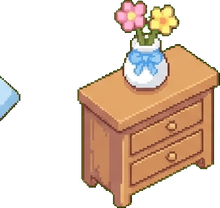
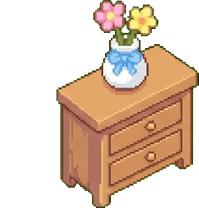
fix(minigames): canon 3-stage Chiikawa forage, unclipped furniture, arch depth occlusion, invite accordion & search

Changed region(s): [[0.2714, 0.0, 0.995, 1.0], [0.0, 0.3462, 0.1206, 0.5769], [0.9045, 0.375, 0.9347, 0.4038]]

diff --git a/app/src/main/assets/canvas-minigames.js b/app/src/main/assets/canvas-minigames.js
@@ -31,11 +31,12 @@
   aquarium:'pixel_furn_aquarium',lamp:'pixel_furn_lamp',plant:'pixel_furn_plant',
   rug:'pixel_furn_cushions'
  };
- // Foot collision half-extents (hw, hh) in logical 600x1000 space so live room actors never walk through furniture.
+ // Foot collision half-extents (hw, hh) & height layerBias in logical 600x1000 space.
+ // Flat items (cushions/rug) use negative layerBias so characters sit/stand over them; tall items occlude behind.
  const FURNITURE_FOOTPRINTS={
-  bed:{hw:54,hh:26,sit:true},shelf:{hw:34,hh:20},books:{hw:34,hh:20},
-  desk:{hw:38,hh:22},chair:{hw:36,hh:18,sit:true},sofa:{hw:38,hh:22,sit:true},
-  aquarium:{hw:34,hh:22},lamp:{hw:18,hh:14},plant:{hw:20,hh:14},rug:{hw:36,hh:18,sit:true}
+  bed:{hw:54,hh:26,sit:true,layerBias:0},shelf:{hw:34,hh:20,layerBias:4},books:{hw:34,hh:20,layerBias:4},
+  desk:{hw:38,hh:22,layerBias:0},chair:{hw:36,hh:18,sit:true,layerBias:-22},sofa:{hw:38,hh:22,sit:true,layerBias:2},
+  aquarium:{hw:34,hh:22,layerBias:4},lamp:{hw:18,hh:14,layerBias:4},plant:{hw:20,hh:14,layerBias:2},rug:{hw:36,hh:18,sit:true,layerBias:-26}
  };
  const MASCOT_IDS=new Set(['chiikawa','hachiware','usagi','rakko','kurimanju']);
  const ALL_RESIDENT_NAMES=[
@@ -88,6 +89,8 @@
     bg_room:'images/room/room-decor.webp',
     room_chiikawa:'images/minigames/room_chiikawa_empty.webp',
     room_hachiware:'images/minigames/room_hachiware_empty.webp',
+    room_chiikawa_fg:'images/minigames/room_chiikawa_fg.png',
+    room_hachiware_fg:'images/minigames/room_hachiware_fg.png',
     meadow_bg:'images/minigames/meadow_bg.webp',
     prop_weed_full:'images/minigames/props/weed_full.png',
     prop_weed_damaged:'images/minigames/props/weed_damaged.png',
@@ -126,6 +129,8 @@
     foraging:{stage:1,timer:0,choices:[],pending:false,foodIdx:0},
     room:this.loadRoomState()};
    this.roomActors=[];
+   this.roomInviteOpen=false;
+   this.roomGuestQuery='';
    this.roomSocialBar=root.document.getElementById('wv-room-social-bar');
    this.weedMatchNode=root.document.getElementById('wv-weed-match');
    this.forageSentenceNode=root.document.getElementById('wv-forage-sentence');
@@ -598,18 +603,26 @@
     this.text(fr.word||'word',fx+49,fy+22,13,INK,'850',88);
     this.text(fr.meaning||'',fx+49,fy+40,11,'#7d5e48','650',88);
    });
-   // Depth-sort BOTH placed furniture AND live room actors (host + invited residents) by footY!
+   // Depth-sort placed furniture, live room actors, AND front doorway arch/pillars by footY!
    const drawList=[];
    room.placed.forEach((item,index)=>{
-    drawList.push({kind:'furn',footY:item.y+ROOM_FLOOR_OFFSET,item,index});
+    const bias=FURNITURE_FOOTPRINTS[item.id]?.layerBias||0;
+    drawList.push({kind:'furn',footY:item.y+ROOM_FLOOR_OFFSET,sortY:item.y+ROOM_FLOOR_OFFSET+bias,item,index});
    });
    for(const actor of this.roomActors){
-    drawList.push({kind:'actor',footY:actor.y+ROOM_FLOOR_OFFSET,actor});
+    drawList.push({kind:'actor',footY:actor.y+ROOM_FLOOR_OFFSET,sortY:actor.y+ROOM_FLOOR_OFFSET,actor});
    }
-   drawList.sort((a,b)=>a.footY-b.footY);
+   // Front stone arch / dome door arch + lower rim occludes actors & furniture behind y=488
+   const fgKey=room.host==='hachiware'?'room_hachiware_fg':'room_chiikawa_fg';
+   if(this.sprites[fgKey]){
+    drawList.push({kind:'room_fg',footY:488,sortY:488,fgKey});
+   }
+   drawList.sort((a,b)=>a.sortY-b.sortY);
    const nowSec=Date.now()/1000;
    for(const entry of drawList){
-    if(entry.kind==='furn'){
+    if(entry.kind==='room_fg'){
+     this.paintSprite(entry.fgKey,-24,95,648,560);
+    }else if(entry.kind==='furn'){
      const {item,index}=entry;
      const y=entry.footY;
      const pixKey=PIXEL_FURNITURE_MAP[item.id];
@@ -954,30 +967,73 @@
     });
     hostRow.append(btn);
    }
-   const gRow=root.document.createElement('div');gRow.className='wv-room-social-row';
-   const gl=root.document.createElement('span');gl.className='wv-room-social-label';
-   gl.textContent='👥 마을 주민 초대 ('+(room.guests||[]).length+'/4):';
-   gRow.append(gl);
+   // Accordion header showing invited resident count + compact badges + expand/collapse arrow
+   const accBtn=root.document.createElement('button');accBtn.type='button';accBtn.className='wv-guest-accordion-btn';
+   accBtn.setAttribute('aria-expanded',String(Boolean(this.roomInviteOpen)));
+   const summary=root.document.createElement('span');summary.className='wv-guest-summary';
+   const guests=room.guests||[];
+   const nameMap=new Map(ALL_RESIDENT_NAMES);
+   summary.append('👥 마을 주민 초대 ('+guests.length+'/4)');
+   guests.forEach(gid=>{
+    const badge=root.document.createElement('span');badge.className='wv-guest-badge';
+    badge.textContent=nameMap.get(gid)||gid;
+    summary.append(badge);
+   });
+   const arrow=root.document.createElement('span');
+   arrow.textContent=this.roomInviteOpen?'접기 ▴':'펼치기 ▾';
+   accBtn.append(summary,arrow);
+
+   const panel=root.document.createElement('div');panel.className='wv-guest-panel';
+   panel.hidden=!this.roomInviteOpen;
+   const search=root.document.createElement('input');
+   search.type='search';search.className='wv-guest-search';
+   search.placeholder='🔍 주민 이름 검색 (예: 우사기, 토시로, 알렉스)...';
+   search.value=this.roomGuestQuery||'';
    const chips=root.document.createElement('div');chips.className='wv-guest-chips';
-   for(const [rid,rname] of ALL_RESIDENT_NAMES){
-    if(rid===room.host)continue;
-    const active=(room.guests||[]).includes(rid);
-    const chip=root.document.createElement('button');chip.type='button';chip.className='wv-guest-chip';
-    chip.setAttribute('aria-pressed',String(active));
-    chip.textContent=active?rname+' ✓':rname+' +';
-    chip.addEventListener('click',()=>{
-     const cur=room.guests||[];
-     if(cur.includes(rid)){
-      room.guests=cur.filter(id=>id!==rid);
-     }else{
-      if(cur.length>=4){this.message('마을 주민은 최대 4명까지 함께 초대할 수 있어요.');return;}
-      room.guests=[...cur,rid];
-     }
-     this.saveRoomState();this.syncRoomActors();this.renderRoomSocialUI();
-    });
-    chips.append(chip);
-   }
-   bar.append(hostRow,gRow,chips);
+
+   const populateChips=()=>{
+    chips.replaceChildren();
+    const q=(this.roomGuestQuery||'').trim().toLowerCase();
+    let count=0;
+    for(const [rid,rname] of ALL_RESIDENT_NAMES){
+     if(rid===room.host)continue;
+     if(q&&!rname.toLowerCase().includes(q)&&!rid.toLowerCase().includes(q))continue;
+     count++;
+     const active=(room.guests||[]).includes(rid);
+     const chip=root.document.createElement('button');chip.type='button';chip.className='wv-guest-chip';
+     chip.setAttribute('aria-pressed',String(active));
+     chip.textContent=active?rname+' ✓':rname+' +';
+     chip.addEventListener('click',()=>{
+      const cur=room.guests||[];
+      if(cur.includes(rid)){
+       room.guests=cur.filter(id=>id!==rid);
+      }else{
+       if(cur.length>=4){this.message('마을 주민은 최대 4명까지 함께 초대할 수 있어요.');return;}
+       room.guests=[...cur,rid];
+      }
+      this.saveRoomState();this.syncRoomActors();this.renderRoomSocialUI();
+     });
+     chips.append(chip);
+    }
+    if(!count){
+     const empty=root.document.createElement('span');empty.className='wv-guest-empty';
+     empty.textContent='“'+this.roomGuestQuery+'”에 해당하는 주민이 없습니다.';
+     chips.append(empty);
+    }
+   };
+   search.addEventListener('input',()=>{
+    this.roomGuestQuery=search.value;
+    populateChips();
+   });
+   accBtn.addEventListener('click',()=>{
+    this.roomInviteOpen=!this.roomInviteOpen;
+    panel.hidden=!this.roomInviteOpen;
+    accBtn.setAttribute('aria-expanded',String(this.roomInviteOpen));
+    arrow.textContent=this.roomInviteOpen?'접기 ▴':'펼치기 ▾';
+   });
+   populateChips();
+   panel.append(search,chips);
+   bar.append(hostRow,accBtn,panel);
   }
   buildWeedingMatchUI(){
    const box=this.weedMatchNode;if(!box||!this.words.length)return;

diff --git a/app/src/main/assets/canvas-minigames.css b/app/src/main/assets/canvas-minigames.css
@@ -206,7 +206,28 @@
 #wv-room-social-bar .wv-host-btn[data-host="hachiware"][aria-pressed="true"]{
  background:#6eb2de;border-color:#3a6f94;color:#fff;
 }
-.wv-guest-chips{display:flex;flex-wrap:wrap;gap:5px;max-height:92px;overflow-y:auto;padding:2px 0}
+.wv-guest-accordion-btn{
+ width:100%;display:flex;align-items:center;justify-content:space-between;gap:8px;
+ min-height:36px;padding:6px 10px;border-radius:10px;
+ background:#f7ecd7;border:1.5px solid #c4a482;color:#4a3b32;font-size:12px;font-weight:850;
+ text-align:left;cursor:pointer;
+}
+.wv-guest-accordion-btn>span:last-child{white-space:nowrap;flex-shrink:0}
+.wv-guest-summary{display:flex;flex-wrap:wrap;align-items:center;gap:4px;font-weight:700;color:#5a4636}
+.wv-guest-badge{
+ display:inline-block;padding:1px 7px;border-radius:999px;font-size:11px;
+ background:#cdecc2;border:1px solid #4b8552;color:#25492a;font-weight:800;
+}
+.wv-guest-panel{display:flex;flex-direction:column;gap:6px;padding-top:4px}
+.wv-guest-panel[hidden]{display:none!important}
+.wv-guest-search{
+ width:100%;box-sizing:border-box;min-height:34px;padding:5px 10px;
+ border:1.5px solid #b8946e;border-radius:9px;background:#fffdf8;
+ font-size:12px;color:#3d2b1f;outline:none;
+}
+.wv-guest-search:focus{border-color:#7d5536;box-shadow:0 0 0 2px #e6caa880}
+.wv-guest-chips{display:flex;flex-wrap:wrap;gap:5px;max-height:112px;overflow-y:auto;padding:2px 0}
+.wv-guest-empty{font-size:11px;color:#8a715c;padding:4px 2px}
 #wv-room-social-bar .wv-guest-chip{
  min-height:30px;padding:3px 9px;font-size:11px;border-radius:999px;
  background:#fffdf7;border:1.5px solid #c4a482;color:#5a4636;
@@ -244,6 +265,11 @@
 #wv-forage-sentence strong{display:block;font-size:15px;color:#3d2b1f;margin-bottom:2px}
 #wv-forage-card .wv-forage-viewport{
  background:#c5e3a5 url('images/minigames/meadow_bg.webp') center bottom / cover no-repeat;
+}
+#wv-forage-card .wv-forage-sprite{
+ width:215px;height:215px;
+ background:url('images/minigames/chiikawa_forage_3stage.png') no-repeat var(--forage-frame) center / 300% 100%;
+ filter:drop-shadow(0 4px 4px #3c2e2230);
 }
 .wv-forage-food-prop{
  position:absolute;right:14px;bottom:14px;width:78px;height:78px;
